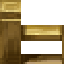
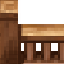
Fence updates

diff --git a/ArenaGame/Game1.cs b/ArenaGame/Game1.cs
@@ -119,34 +119,33 @@ namespace ArenaGame
 
 
             fenceMap.Generate(new int[,]
-{               {3, 3, 3, 3, 3, 3, 3, 3, 3, 3, 3, 3, 3, 3, 3, 3, 3, 3, 3, 3, 3, 3, 3, 3, 3, 3, 3, 3, 3, 3, 3, 3, 3, 3, 3, 3, 3, 3, 3, 3, 3, 3, 3, 3, 3, 3, 3, 3, 3, 3, 3, 3, 3, 3, },
-                {3, 0, 0, 0, 0, 0, 0, 0, 0, 0, 0, 0, 0, 0, 0, 0, 0, 0, 0, 0, 0, 0, 0, 0, 0, 0, 0, 0, 0, 0, 0, 0, 0, 0, 0, 0, 0, 0, 0, 0, 0, 0, 0, 0, 0, 0, 0, 0, 0, 0, 0, 0, 0, 3, },
-                {3, 0, 0, 0, 0, 0, 0, 0, 0, 0, 0, 0, 0, 0, 2, 0, 0, 0, 0, 0, 0, 0, 0, 0, 0, 0, 0, 0, 0, 0, 0, 0, 0, 0, 0, 0, 0, 2, 0, 0, 0, 0, 0, 0, 0, 0, 0, 0, 0, 0, 0, 0, 0, 3, },
-                {3, 0, 0, 0, 0, 0, 0, 0, 0, 0, 0, 0, 0, 0, 0, 0, 0, 0, 0, 0, 0, 0, 0, 0, 0, 0, 0, 0, 0, 0, 0, 0, 0, 0, 0, 0, 0, 0, 0, 0, 0, 0, 0, 0, 0, 0, 0, 0, 0, 0, 0, 0, 0, 3, },
-                {3, 0, 0, 0, 0, 0, 0, 0, 2, 0, 0, 0, 0, 2, 0, 0, 0, 0, 0, 0, 0, 0, 0, 0, 0, 0, 0, 0, 0, 0, 0, 0, 0, 0, 0, 0, 2, 0, 0, 0, 0, 0, 0, 0, 0, 0, 0, 0, 0, 0, 0, 0, 0, 3, },
-                {3, 0, 0, 0, 0, 0, 0, 0, 0, 0, 0, 0, 0, 0, 0, 0, 0, 0, 0, 0, 0, 0, 0, 0, 0, 0, 0, 0, 0, 0, 0, 0, 0, 0, 0, 0, 0, 0, 0, 0, 0, 0, 0, 0, 0, 0, 0, 0, 0, 0, 0, 0, 0, 3, },
-                {3, 0, 0, 0, 2, 0, 0, 0, 0, 0, 0, 0, 0, 0, 0, 0, 0, 0, 0, 0, 0, 0, 0, 0, 0, 0, 0, 0, 0, 0, 0, 0, 0, 0, 0, 0, 0, 0, 0, 0, 0, 0, 0, 0, 0, 0, 2, 0, 0, 0, 0, 0, 0, 3, },
-                {3, 0, 0, 0, 0, 0, 0, 0, 0, 0, 0, 0, 2, 0, 0, 0, 0, 0, 0, 0, 0, 0, 2, 0, 0, 0, 0, 0, 2, 0, 0, 0, 0, 0, 0, 2, 0, 0, 0, 0, 0, 0, 0, 0, 0, 0, 0, 0, 0, 0, 0, 0, 0, 3, },
-                {3, 0, 0, 0, 0, 0, 0, 0, 2, 0, 0, 0, 0, 0, 2, 0, 0, 0, 0, 0, 0, 2, 0, 0, 0, 0, 0, 0, 0, 2, 0, 0, 0, 0, 0, 0, 0, 2, 0, 0, 0, 0, 0, 0, 0, 0, 0, 0, 0, 0, 0, 0, 0, 3, },
-                {3, 0, 0, 0, 0, 0, 0, 0, 0, 0, 0, 0, 0, 0, 0, 0, 0, 2, 0, 0, 2, 0, 0, 0, 0, 0, 0, 0, 0, 0, 2, 0, 0, 2, 0, 0, 0, 0, 0, 0, 0, 0, 0, 0, 0, 0, 0, 0, 0, 0, 0, 0, 0, 3, },
-                {3, 1, 1, 1, 1, 1, 1, 1, 1, 1, 1, 1, 1, 1, 1, 1, 1, 0, 0, 2, 0, 0, 0, 0, 0, 0, 0, 0, 0, 0, 0, 2, 0, 0, 1, 1, 1, 1, 1, 1, 1, 1, 1, 1, 1, 1, 1, 1, 1, 1, 1, 1, 1, 3, },
-                {3, 0, 0, 0, 0, 0, 0, 0, 0, 0, 0, 0, 0, 0, 0, 0, 0, 0, 0, 0, 0, 0, 0, 0, 0, 0, 0, 0, 0, 0, 0, 0, 0, 0, 0, 0, 0, 0, 0, 0, 0, 0, 0, 0, 0, 0, 0, 0, 0, 0, 0, 0, 0, 3, },
-                {3, 0, 0, 0, 0, 0, 0, 0, 0, 0, 0, 0, 0, 0, 0, 0, 0, 0, 0, 0, 0, 0, 0, 0, 0, 4, 0, 0, 0, 0, 0, 0, 0, 0, 0, 0, 0, 0, 0, 0, 0, 0, 0, 0, 0, 0, 0, 0, 0, 0, 0, 0, 0, 3, },
-                {3, 0, 0, 0, 0, 0, 0, 0, 0, 0, 0, 0, 0, 0, 0, 0, 0, 0, 0, 0, 0, 0, 0, 0, 0, 0, 0, 0, 0, 0, 0, 0, 0, 0, 0, 0, 0, 0, 0, 0, 0, 0, 0, 0, 0, 0, 0, 0, 0, 0, 0, 0, 0, 3, },
-                {3, 0, 0, 0, 0, 0, 0, 0, 0, 0, 0, 0, 0, 0, 0, 0, 0, 0, 0, 0, 0, 0, 0, 0, 0, 0, 0, 0, 0, 0, 0, 0, 0, 0, 0, 0, 0, 0, 0, 0, 0, 0, 0, 0, 0, 0, 0, 0, 0, 0, 0, 0, 0, 3, },
-                {3, 0, 0, 0, 0, 0, 0, 0, 0, 0, 0, 0, 0, 0, 0, 0, 0, 0, 0, 0, 0, 0, 0, 0, 0, 0, 0, 0, 0, 0, 0, 0, 0, 0, 0, 0, 0, 0, 0, 0, 0, 0, 0, 0, 0, 0, 0, 0, 0, 0, 0, 0, 0, 3, },
-                {3, 1, 1, 1, 1, 1, 1, 1, 1, 1, 1, 1, 1, 1, 1, 1, 1, 0, 0, 2, 0, 0, 0, 0, 0, 0, 0, 0, 0, 0, 0, 2, 0, 0, 1, 1, 1, 1, 1, 1, 1, 1, 1, 1, 1, 1, 1, 1, 1, 1, 1, 1, 1, 3, },
-                {3, 0, 0, 0, 0, 0, 0, 0, 0, 0, 0, 0, 0, 0, 0, 0, 0, 0, 0, 0, 2, 0, 0, 0, 0, 0, 0, 0, 0, 0, 2, 0, 0, 0, 0, 0, 0, 0, 0, 0, 2, 0, 0, 0, 0, 0, 0, 0, 0, 0, 0, 0, 0, 3, },
-                {3, 0, 0, 0, 0, 0, 0, 0, 0, 0, 0, 0, 0, 0, 0, 0, 0, 0, 0, 0, 0, 2, 0, 0, 0, 0, 0, 0, 0, 2, 0, 0, 0, 0, 0, 0, 0, 0, 0, 0, 0, 0, 0, 0, 0, 0, 0, 0, 0, 0, 0, 0, 0, 3, },
-                {3, 0, 0, 0, 2, 0, 0, 0, 0, 0, 0, 2, 0, 2, 0, 0, 0, 0, 0, 0, 0, 0, 2, 0, 0, 0, 0, 0, 2, 0, 0, 0, 0, 0, 2, 0, 2, 0, 0, 0, 0, 0, 0, 0, 0, 0, 0, 0, 0, 0, 0, 0, 0, 3, },
-                {3, 0, 0, 0, 0, 0, 0, 0, 0, 0, 0, 0, 0, 0, 0, 0, 0, 0, 0, 0, 0, 0, 0, 0, 0, 0, 0, 0, 0, 0, 0, 0, 0, 0, 0, 0, 0, 0, 0, 0, 0, 0, 0, 0, 0, 0, 0, 0, 0, 0, 0, 0, 0, 3, },
-                {3, 0, 0, 0, 0, 0, 0, 0, 0, 0, 0, 0, 0, 0, 0, 0, 0, 0, 0, 0, 0, 0, 0, 0, 0, 0, 0, 0, 0, 0, 0, 0, 0, 0, 0, 0, 0, 0, 0, 0, 0, 0, 0, 0, 0, 0, 0, 0, 0, 0, 0, 0, 0, 3, },
-                {3, 0, 0, 0, 2, 0, 0, 0, 0, 0, 0, 0, 0, 0, 0, 0, 0, 0, 0, 0, 0, 0, 0, 0, 0, 0, 0, 0, 0, 0, 0, 0, 0, 0, 0, 0, 0, 0, 0, 0, 0, 0, 0, 0, 0, 0, 0, 2, 0, 0, 0, 0, 0, 3, },
-                {3, 0, 0, 0, 0, 0, 0, 0, 0, 0, 0, 0, 0, 0, 2, 0, 0, 0, 0, 0, 0, 0, 0, 0, 0, 0, 0, 0, 0, 0, 0, 0, 0, 0, 0, 0, 0, 2, 0, 0, 0, 0, 2, 0, 0, 0, 0, 0, 0, 0, 0, 0, 0, 3, },
-                {3, 0, 0, 0, 0, 0, 0, 0, 0, 0, 0, 0, 0, 0, 0, 0, 0, 0, 0, 0, 0, 0, 0, 0, 0, 0, 0, 0, 0, 0, 0, 0, 0, 0, 0, 0, 0, 0, 0, 0, 0, 0, 0, 0, 2, 0, 0, 0, 0, 0, 0, 0, 0, 3, },
-                {3, 0, 2, 0, 0, 0, 0, 0, 0, 0, 0, 2, 0, 0, 0, 0, 0, 0, 0, 0, 0, 0, 0, 0, 0, 0, 0, 0, 0, 0, 0, 0, 0, 0, 2, 0, 0, 0, 0, 0, 0, 0, 2, 0, 0, 0, 0, 0, 0, 0, 0, 0, 0, 3, },
-                {3, 0, 0, 0, 0, 0, 0, 0, 0, 0, 0, 0, 0, 0, 0, 0, 0, 0, 0, 0, 0, 0, 0, 0, 0, 0, 0, 0, 0, 0, 0, 0, 0, 0, 0, 0, 0, 0, 0, 0, 0, 0, 0, 0, 0, 0, 0, 0, 0, 0, 0, 0, 0, 3, },
-                {3, 3, 3, 3, 3, 3, 3, 3, 3, 3, 3, 3, 3, 3, 3, 3, 3, 3, 3, 3, 3, 3, 3, 3, 3, 3, 3, 3, 3, 3, 3, 3, 3, 3, 3, 3, 3, 3, 3, 3, 3, 3, 3, 3, 3, 3, 3, 3, 3, 3, 3, 3, 3, 3, },
+{               {3, 3, 3, 3, 3, 3, 3, 3, 3, 3, 3, 3, 3, 3, 3, 3, 3, 3, 3, 3, 3, 3, 3, 3, 3, 3, 3, 3, 3, 3, 3, 3, 3, 3, 3, 3, 3, 3, 3, 3, 3, 3, 3, 3, 3, 3, 3, 3, 3, 3, 3, 3, },
+                {3, 0, 0, 0, 0, 0, 0, 0, 0, 0, 0, 0, 0, 0, 0, 0, 0, 0, 0, 0, 0, 0, 5, 0, 0, 0, 0, 0, 6, 0, 0, 0, 0, 0, 0, 0, 0, 0, 0, 0, 0, 0, 0, 0, 0, 0, 0, 0, 0, 0, 0, 3, },
+                {3, 0, 0, 0, 0, 0, 0, 0, 0, 0, 0, 0, 0, 0, 2, 0, 0, 0, 0, 0, 0, 0, 5, 0, 0, 0, 0, 0, 6, 0, 0, 0, 0, 0, 0, 0, 0, 2, 0, 0, 0, 0, 0, 0, 0, 0, 0, 0, 0, 0, 0, 3, },
+                {3, 0, 0, 0, 0, 0, 0, 0, 0, 0, 0, 0, 0, 0, 0, 0, 0, 0, 0, 0, 0, 0, 5, 0, 0, 0, 0, 0, 6, 0, 0, 0, 0, 0, 0, 0, 0, 0, 0, 0, 0, 0, 0, 0, 0, 0, 0, 0, 0, 0, 0, 3, },
+                {3, 0, 0, 0, 0, 0, 0, 0, 2, 0, 0, 0, 0, 2, 0, 0, 0, 0, 0, 0, 0, 0, 5, 0, 0, 0, 0, 0, 6, 0, 0, 0, 0, 0, 0, 0, 2, 0, 0, 0, 0, 0, 0, 0, 0, 0, 0, 0, 0, 0, 0, 3, },
+                {3, 0, 0, 0, 0, 0, 0, 0, 0, 0, 0, 0, 0, 0, 0, 0, 0, 0, 0, 0, 0, 0, 5, 0, 0, 0, 0, 0, 6, 0, 0, 0, 0, 0, 0, 0, 0, 0, 0, 0, 0, 0, 0, 0, 0, 0, 0, 0, 0, 0, 0, 3, },
+                {3, 0, 0, 0, 2, 0, 0, 0, 0, 0, 0, 0, 0, 0, 0, 0, 0, 0, 0, 0, 0, 0, 5, 0, 0, 0, 0, 0, 6, 0, 0, 0, 0, 0, 0, 0, 0, 0, 0, 0, 0, 0, 0, 0, 0, 0, 2, 0, 0, 0, 0, 3, },
+                {3, 0, 0, 0, 0, 0, 0, 0, 0, 0, 0, 0, 2, 0, 0, 0, 0, 0, 0, 0, 0, 0, 2, 0, 0, 0, 0, 0, 2, 0, 0, 0, 0, 0, 0, 2, 0, 0, 0, 0, 0, 0, 0, 0, 0, 0, 0, 0, 0, 0, 0, 3, },
+                {3, 0, 0, 0, 0, 0, 0, 0, 2, 0, 0, 0, 0, 0, 2, 0, 0, 0, 0, 0, 0, 2, 0, 0, 0, 0, 0, 0, 0, 2, 0, 0, 0, 0, 0, 0, 0, 2, 0, 0, 0, 0, 0, 0, 0, 0, 0, 0, 0, 0, 0, 3, },
+                {3, 0, 0, 0, 0, 0, 0, 0, 0, 0, 0, 0, 0, 0, 0, 0, 0, 2, 0, 0, 2, 0, 0, 0, 0, 0, 0, 0, 0, 0, 2, 0, 0, 2, 0, 0, 0, 0, 0, 0, 0, 0, 0, 0, 0, 0, 0, 0, 0, 0, 0, 3, },
+                {3, 1, 1, 1, 1, 1, 1, 1, 1, 1, 1, 1, 1, 1, 1, 1, 1, 0, 0, 2, 0, 0, 0, 0, 0, 0, 0, 0, 0, 0, 0, 2, 0, 0, 1, 1, 1, 1, 1, 1, 1, 1, 1, 1, 1, 1, 1, 1, 1, 1, 1, 3, },
+                {3, 0, 0, 0, 0, 0, 0, 0, 0, 0, 0, 0, 0, 0, 0, 0, 0, 0, 0, 0, 0, 0, 0, 0, 0, 0, 0, 0, 0, 0, 0, 0, 0, 0, 0, 0, 0, 0, 0, 0, 0, 0, 0, 0, 0, 0, 0, 0, 0, 0, 0, 3, },
+                {3, 0, 0, 0, 0, 0, 0, 0, 0, 0, 0, 0, 0, 0, 0, 0, 0, 0, 0, 0, 0, 0, 0, 0, 0, 4, 0, 0, 0, 0, 0, 0, 0, 0, 0, 0, 0, 0, 0, 0, 0, 0, 0, 0, 0, 0, 0, 0, 0, 0, 0, 3, },
+                {3, 0, 0, 0, 0, 0, 0, 0, 0, 0, 0, 0, 0, 0, 0, 0, 0, 0, 0, 0, 0, 0, 0, 0, 0, 0, 0, 0, 0, 0, 0, 0, 0, 0, 0, 0, 0, 0, 0, 0, 0, 0, 0, 0, 0, 0, 0, 0, 0, 0, 0, 3, },
+                {3, 0, 0, 0, 0, 0, 0, 0, 0, 0, 0, 0, 0, 0, 0, 0, 0, 0, 0, 0, 0, 0, 0, 0, 0, 0, 0, 0, 0, 0, 0, 0, 0, 0, 0, 0, 0, 0, 0, 0, 0, 0, 0, 0, 0, 0, 0, 0, 0, 0, 0, 3, },
+                {3, 1, 1, 1, 1, 1, 1, 1, 1, 1, 1, 1, 1, 1, 1, 1, 1, 0, 0, 2, 0, 0, 0, 0, 0, 0, 0, 0, 0, 0, 0, 2, 0, 0, 1, 1, 1, 1, 1, 1, 1, 1, 1, 1, 1, 1, 1, 1, 1, 1, 1, 3, },
+                {3, 0, 0, 0, 0, 0, 0, 0, 0, 0, 0, 0, 0, 0, 0, 0, 0, 0, 0, 0, 0, 0, 0, 0, 0, 0, 0, 0, 0, 0, 0, 0, 0, 0, 0, 0, 0, 0, 0, 0, 0, 0, 0, 0, 0, 0, 0, 0, 0, 0, 0, 3, },
+                {3, 0, 0, 0, 0, 0, 0, 0, 0, 0, 0, 0, 0, 0, 0, 0, 0, 0, 0, 0, 2, 0, 0, 0, 0, 0, 0, 0, 0, 0, 2, 0, 0, 0, 0, 0, 0, 0, 0, 0, 2, 0, 0, 0, 0, 0, 0, 0, 0, 0, 0, 3, },
+                {3, 0, 0, 0, 0, 0, 0, 0, 0, 0, 0, 0, 0, 0, 0, 0, 0, 0, 0, 0, 0, 2, 0, 0, 0, 0, 0, 0, 0, 2, 0, 0, 0, 0, 0, 0, 0, 0, 0, 0, 0, 0, 0, 0, 0, 0, 0, 0, 0, 0, 0, 3, },
+                {3, 0, 0, 0, 2, 0, 0, 0, 0, 0, 0, 2, 0, 2, 0, 0, 0, 0, 0, 0, 0, 0, 2, 0, 0, 0, 0, 0, 2, 0, 0, 0, 0, 0, 2, 0, 2, 0, 0, 0, 0, 0, 0, 0, 0, 0, 0, 0, 0, 0, 0, 3, },
+                {3, 0, 0, 0, 0, 0, 0, 0, 0, 0, 0, 0, 0, 0, 0, 0, 0, 0, 0, 0, 0, 0, 5, 0, 0, 0, 0, 0, 6, 0, 0, 0, 0, 0, 0, 0, 0, 0, 0, 0, 0, 0, 0, 0, 0, 0, 0, 0, 0, 0, 0, 3, },
+                {3, 0, 0, 0, 0, 0, 0, 0, 0, 0, 0, 0, 0, 0, 0, 0, 0, 0, 0, 0, 0, 0, 5, 0, 0, 0, 0, 0, 6, 0, 0, 0, 0, 0, 0, 0, 0, 0, 0, 0, 0, 0, 0, 0, 0, 0, 0, 0, 0, 0, 0, 3, },
+                {3, 0, 0, 0, 2, 0, 0, 0, 0, 0, 0, 0, 0, 0, 0, 0, 0, 0, 0, 0, 0, 0, 5, 0, 0, 0, 0, 0, 6, 0, 0, 0, 0, 0, 0, 0, 0, 0, 0, 0, 0, 0, 0, 0, 0, 0, 0, 2, 0, 0, 0, 3, },
+                {3, 0, 0, 0, 0, 0, 0, 0, 0, 0, 0, 0, 0, 0, 2, 0, 0, 0, 0, 0, 0, 0, 5, 0, 0, 0, 0, 0, 6, 0, 0, 0, 0, 0, 0, 0, 0, 2, 0, 0, 0, 0, 2, 0, 0, 0, 0, 0, 0, 0, 0, 3, },
+                {3, 0, 0, 0, 0, 0, 0, 0, 0, 0, 0, 0, 0, 0, 0, 0, 0, 0, 0, 0, 0, 0, 5, 0, 0, 0, 0, 0, 6, 0, 0, 0, 0, 0, 0, 0, 0, 0, 0, 0, 0, 0, 0, 0, 2, 0, 0, 0, 0, 0, 0, 3, },
+                {3, 0, 2, 0, 0, 0, 0, 0, 0, 0, 0, 2, 0, 0, 0, 0, 0, 0, 0, 0, 0, 0, 5, 0, 0, 0, 0, 0, 6, 0, 0, 0, 0, 0, 2, 0, 0, 0, 0, 0, 0, 0, 2, 0, 0, 0, 0, 0, 0, 0, 0, 3, },
+                {3, 3, 3, 3, 3, 3, 3, 3, 3, 3, 3, 3, 3, 3, 3, 3, 3, 3, 3, 3, 3, 3, 3, 3, 3, 3, 3, 3, 3, 3, 3, 3, 3, 3, 3, 3, 3, 3, 3, 3, 3, 3, 3, 3, 3, 3, 3, 3, 3, 3, 3, 3, },
 
             }, 64);
             //fenceMap.DrawBorder = true;

diff --git a/ArenaGame/CollidableFenceVerLeft.cs b/ArenaGame/CollidableFenceVerLeft.cs
@@ -9,14 +9,13 @@ using Microsoft.Xna.Framework.Graphics;
 
 namespace ArenaGame
 {
-    public class CollidableTreeBorderTall:Tile
+    public class CollidableFenceVerLeft : Tile
     {
-        public CollidableTreeBorderTall(Texture2D Texture2d, Rectangle PictureRectangle)
+        public CollidableFenceVerLeft(Texture2D Texture2d, Rectangle PictureRectangle)
         {
             this.Texture2d = Texture2d;
             this.PictureRectangle = new Rectangle(PictureRectangle.X, PictureRectangle.Y, 64, 64);
-            this.CollisionRectangle = new Rectangle(PictureRectangle.X + 16, PictureRectangle.Y + PictureRectangle.Height / 2, 64, 32);
-
+            this.CollisionRectangle = new Rectangle(PictureRectangle.X + (PictureRectangle.Width - 15) / 2, PictureRectangle.Y + PictureRectangle.Height / 2, 25, 64);
         }
     }
 }

diff --git a/ArenaGame/Map.cs b/ArenaGame/Map.cs
@@ -69,7 +69,14 @@ namespace ArenaGame
 
                 case "Fence4":
                     return new CollidableTreeCherry(Map.Content.Load<Texture2D>(tName + number), new Rectangle(x * size, y * size, size, size));
-                    
+
+                case "Fence5":
+                    return new CollidableFenceVerLeft(Map.Content.Load<Texture2D>(tName + number), new Rectangle(x * size, y * size, size, size));
+
+                case "Fence6":
+                    return new CollidableFenceVerRight(Map.Content.Load<Texture2D>(tName + number), new Rectangle(x * size, y * size, size, size));
+
+
 
                 case "Tile1":
                     return new Tile(Map.Content.Load<Texture2D>(tName + number), new Rectangle(x * size, y * size, size, size));

diff --git a/ArenaGame/CollidableFenceVerRight.cs b/ArenaGame/CollidableFenceVerRight.cs
@@ -1,0 +1,21 @@
+using Microsoft.Xna.Framework;
+using Microsoft.Xna.Framework.Graphics;
+using System;
+using System.Collections.Generic;
+using System.Linq;
+using System.Text;
+using System.Threading.Tasks;
+
+namespace ArenaGame
+{
+    class CollidableFenceVerRight : Tile
+    {
+        public CollidableFenceVerRight(Texture2D Texture2d, Rectangle PictureRectangle)
+        {
+            this.Texture2d = Texture2d;
+            this.PictureRectangle = new Rectangle(PictureRectangle.X, PictureRectangle.Y, 64, 64);
+            this.CollisionRectangle = new Rectangle(PictureRectangle.X + (PictureRectangle.Width - 15) / 2, PictureRectangle.Y + PictureRectangle.Height / 2, 25, 64);
+        }
+    }
+}
+

diff --git a/ArenaGame/CollidableFence.cs b/ArenaGame/CollidableFence.cs
@@ -14,8 +14,8 @@ namespace ArenaGame
         public CollidableFence(Texture2D Texture2d, Rectangle PictureRectangle)
         {
             this.Texture2d = Texture2d;
-            this.PictureRectangle = PictureRectangle;
-            this.CollisionRectangle = new Rectangle(PictureRectangle.X + PictureRectangle.Width / 2, PictureRectangle.Y + PictureRectangle.Height / 2, 31, 31);     
+            this.PictureRectangle = new Rectangle(PictureRectangle.X, PictureRectangle.Y, 64, 64);
+            this.CollisionRectangle = new Rectangle(PictureRectangle.X - 32 + PictureRectangle.Width / 2, PictureRectangle.Y + PictureRectangle.Height / 2, 64, 32);     
         }
     }
 }

diff --git a/ArenaGame/CollidableTreeCherry.cs b/ArenaGame/CollidableTreeCherry.cs
@@ -13,7 +13,6 @@ namespace ArenaGame
         public CollidableTreeCherry(Texture2D Texture2d, Rectangle PictureRectangle)
         {
             this.Texture2d = Texture2d;
-            this.PictureRectangle = PictureRectangle;
             this.PictureRectangle = new Rectangle(PictureRectangle.X -140, PictureRectangle.Y - 175, 292, 329);
             this.CollisionRectangle = new Rectangle(PictureRectangle.X + 16, PictureRectangle.Y + PictureRectangle.Height / 2 + 61, 53, 15);
 
